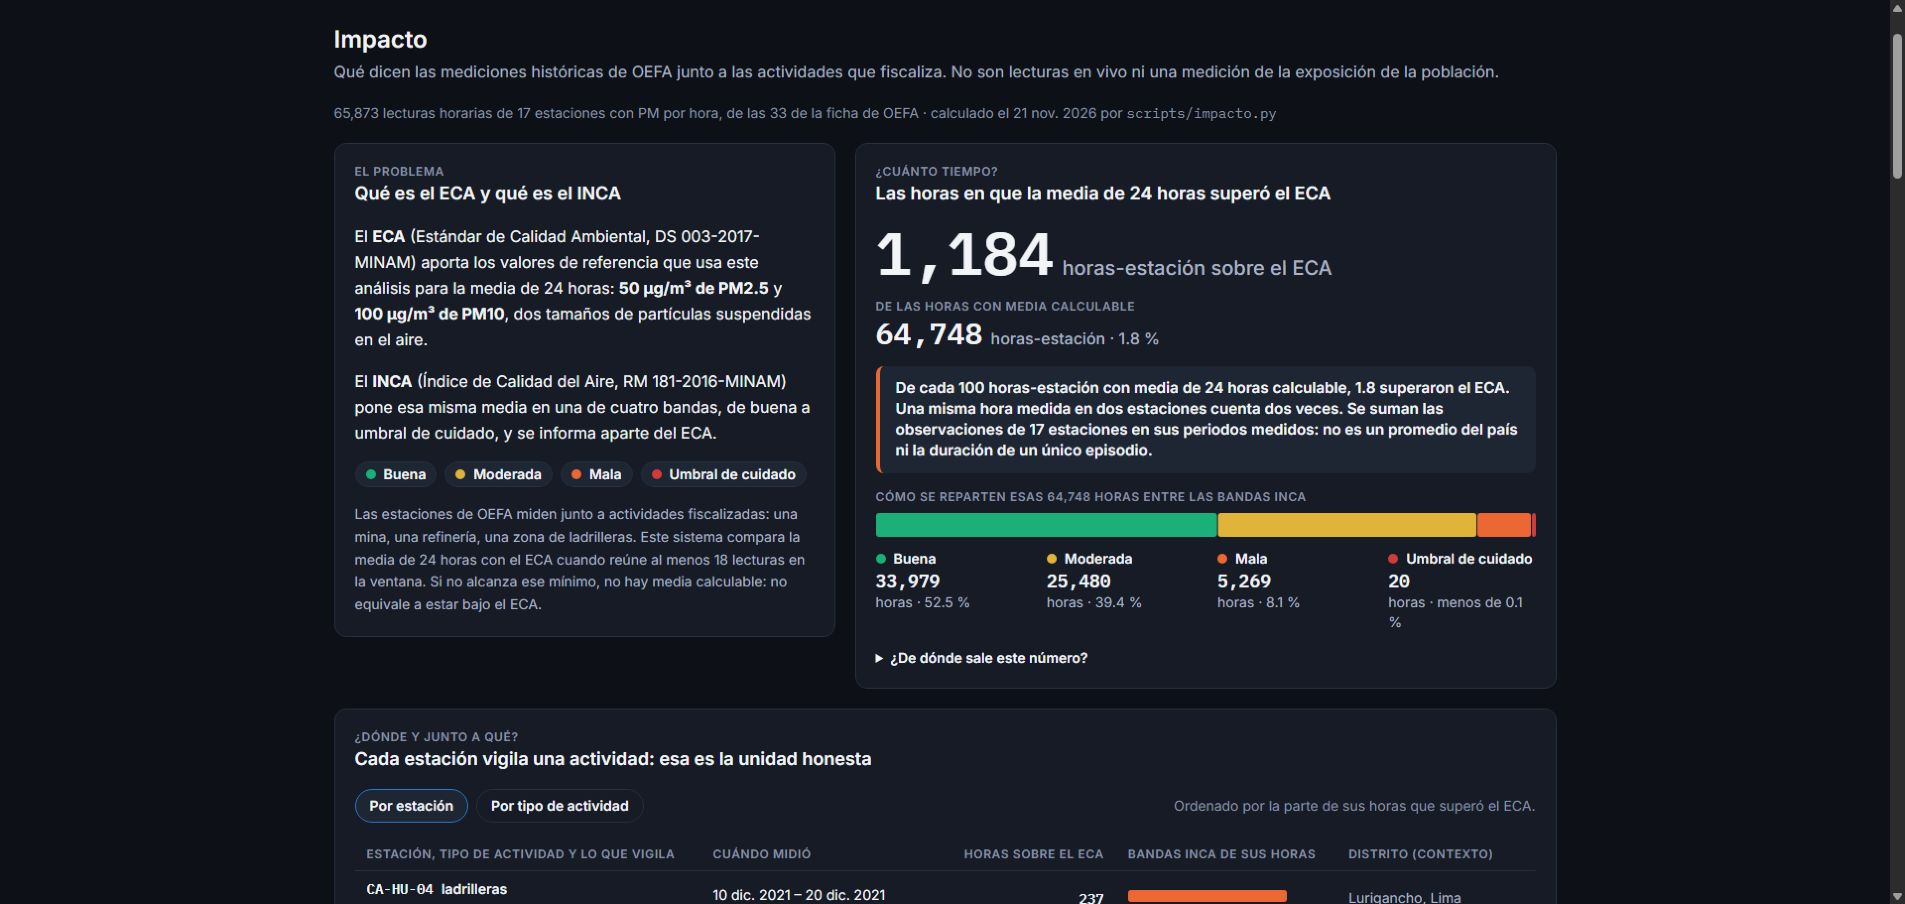
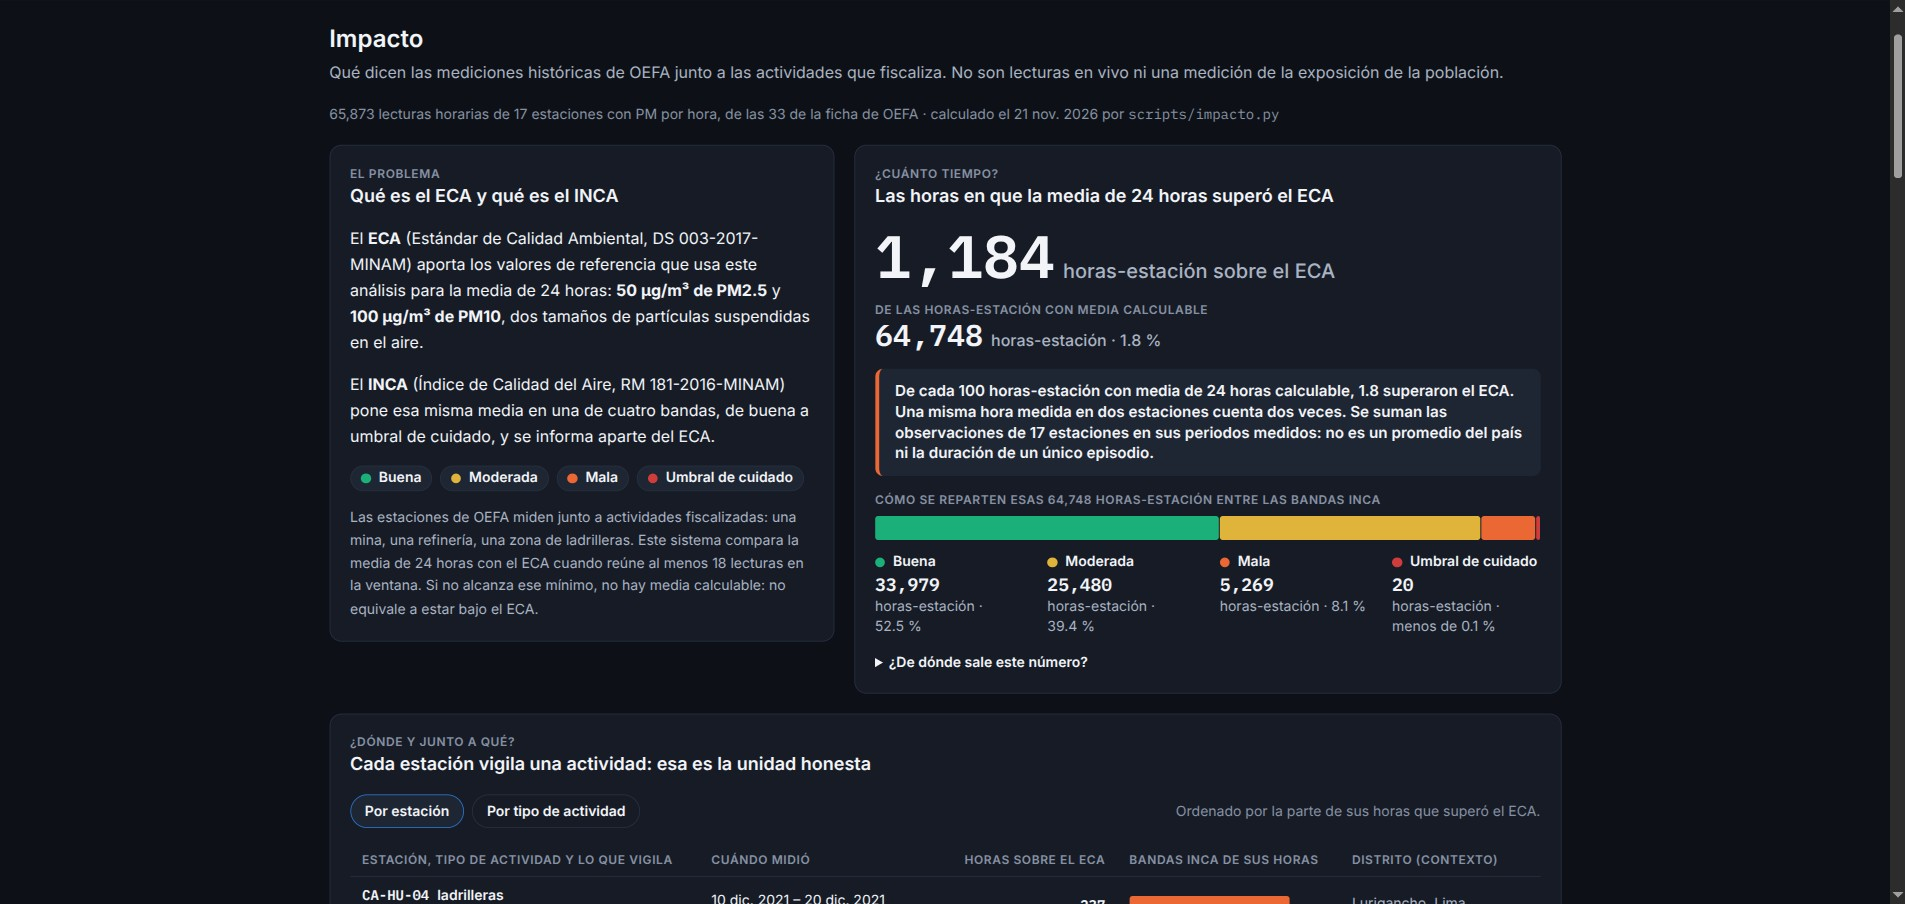
Capturas de los textos de Impacto tomadas otra vez, con su procedencia
La de las fuentes mostraba la etiqueta anterior de la fuente gold, y las
huellas de procedencia.json no coincidían con el código final. Las cuatro
se tomaron contra el Compose de esta rama (develop integrado, tres nodos,
sin cambios locales), en los mismos encuadres; procedencia.json se regeneró
con el commit capturado, las huellas del código y de impacto.json y las de
las imágenes. La revisión anota la segunda ronda.

diff --git a/docs/revision-textos-impacto.md b/docs/revision-textos-impacto.md
@@ -70,8 +70,8 @@ un impacto sanitario ni una evaluación con lecturas futuras.
 
 ## Capturas de la revisión
 
-La interfaz se revisó en Chrome contra una instancia separada de la API real, con
-MongoDB, Redis y tres nodos. Estas imágenes son capturas del navegador; no se
+La interfaz se revisó contra una instancia separada de la API real, con MongoDB,
+Redis y tres nodos. Estas imágenes son capturas del navegador; no se
 reconstruyeron los gráficos ni se editaron las cifras:
 
 - [Alcance histórico y horas-estación](informe/capturas/tb2/textos-impacto/impacto-01-alcance.jpg).
@@ -80,9 +80,9 @@ reconstruyeron los gráficos ni se editaron las cifras:
 - [Limitaciones de los datos y la anticipación](informe/capturas/tb2/textos-impacto/impacto-04-limites.jpg).
 
 La [procedencia de las capturas](informe/capturas/tb2/textos-impacto/procedencia.json)
-identifica la base del código, los textos locales aún sin commit, las huellas del
-código revisado y del JSON de impacto, y las de las propias imágenes. No son
-evidencias de una corrida en el laboratorio ni de rendimiento en producción.
+identifica el commit capturado, las huellas del código revisado y del JSON de
+impacto, y las de las propias imágenes. No son evidencias de una corrida en el
+laboratorio ni de rendimiento en producción.
 
 ## Ajustes de la revisión del PR #115 — 27 de noviembre
 
@@ -95,3 +95,21 @@ Con esos ajustes pasan las 708 pruebas, lint y build en Linux con Node 22. En un
 copia temporal se quitaron la advertencia y se reintrodujo el total antiguo con
 ambas unidades: las pruebas fallaron en los tres casos esperados. Los archivos de
 la aplicación se conservaron corregidos; las regresiones solo se simularon en esa copia.
+
+## Ajustes de la revisión del PR #115 — 28 de noviembre
+
+Quedaban totales que suman estaciones dichos en «horas»: el rótulo «De las
+horas-estación con media calculable», «esas 64,748 horas-estación» de la barra de
+bandas y la unidad de cada banda, «el 44 % de las horas-estación sobre el ECA» de
+la cobertura, el detalle de las señales y su «¿De dónde sale este número?». Ahora
+dicen horas-estación. Las horas de una sola estación, las de la anticipación y el
+título de la sección siguen en horas. La prueba de las cifras de otro
+`impacto.json` exige el rótulo y la frase de la barra con horas-estación, y falla
+si se vuelve a escribir «horas».
+
+La captura de las fuentes mostraba la etiqueta anterior de la fuente gold, que el
+segundo commit ya había corregido, y por eso las huellas de la procedencia no
+coincidían con el código. Las cuatro capturas se volvieron a tomar con
+Chromium manejado con Playwright, en una ventana de 1905 × 904, contra el Compose
+de esta rama con develop integrado y sin cambios locales; la procedencia se
+regeneró con el commit capturado.
